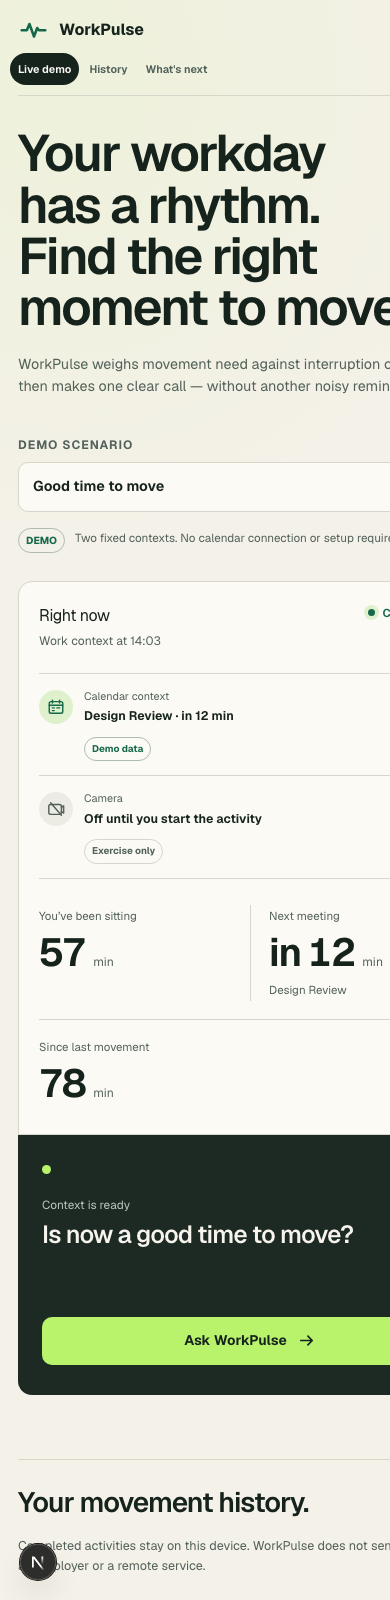
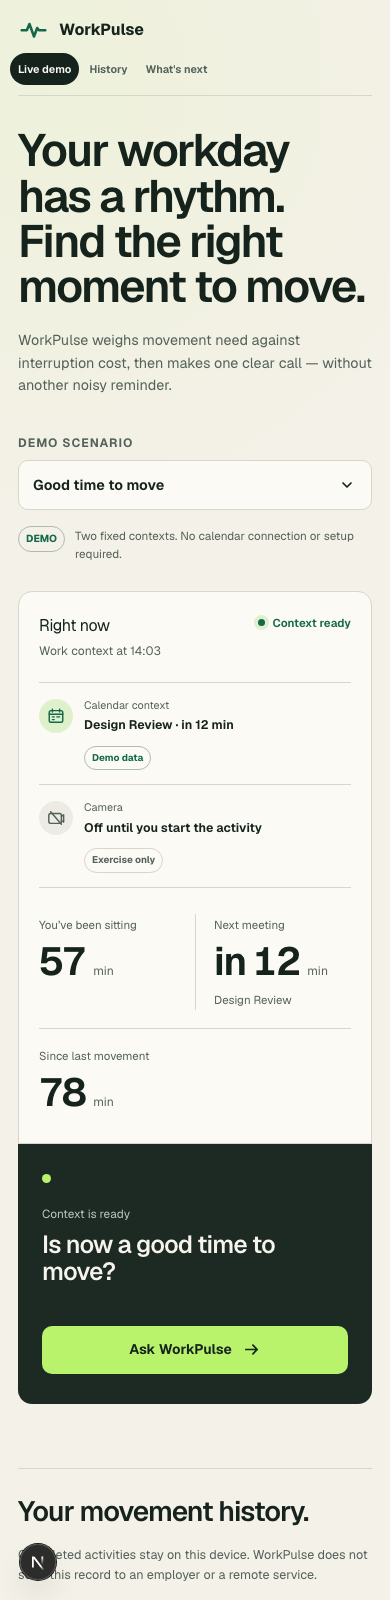
Polish activity history presentation

diff --git a/app/globals.css b/app/globals.css
@@ -560,7 +560,7 @@ footer p { font-size: .7rem; margin: 0; }
   .scenario-options { display: grid; grid-template-columns: repeat(2, 1fr); }
   .scenario-option { border-bottom: 1px solid var(--line); border-left: 1px solid var(--line); min-height: 108px; }
   .scenario-option:first-child { border-left: 0; }
-  .privacy-note { margin: 16px 0 0; max-width: 390px; }
+  .privacy-note { grid-template-columns: auto minmax(0, 1fr); margin: 16px 0 0; max-width: 390px; }
   .movement-history { gap: 30px; grid-template-columns: 1fr; }
   .roadmap-intro { align-items: start; gap: 30px; grid-template-columns: 1fr; }
   .roadmap-focus, .roadmap-explore { gap: 30px; grid-template-columns: 1fr; }
@@ -574,6 +574,7 @@ footer p { font-size: .7rem; margin: 0; }
   .site-nav { gap: 2px; justify-content: flex-start; margin-left: -8px; }
   .site-nav a { font-size: .68rem; padding-inline: 8px; }
   .intro { gap: 20px; padding: 32px 0 34px; }
+  .intro > * { min-width: 0; }
   .intro h1 { font-size: clamp(2.35rem, 11.6vw, 3.2rem); line-height: 1; }
   .intro > p { font-size: .9rem; line-height: 1.55; }
   .scenario-selector legend { margin-bottom: 8px; }
@@ -593,6 +594,8 @@ footer p { font-size: .7rem; margin: 0; }
     width: 100%;
   }
   .context-panel { padding: 22px 20px; }
+  .section-heading-row { flex-wrap: wrap; }
+  .live-status { white-space: normal; }
   .context-sources { grid-template-columns: 1fr; }
   .context-source { grid-template-columns: auto minmax(0, 1fr); padding: 14px 0; }
   .context-source + .context-source { border-left: 0; border-top: 1px solid var(--line); padding-left: 0; }

diff --git a/components/ActivityHistory.tsx b/components/ActivityHistory.tsx
@@ -36,8 +36,9 @@ export function ActivityHistory({ entries }: { entries: ActivityHistoryEntry[] }
       <header>
         <h2 id="history-heading">Your movement history.</h2>
         <p>
-          Completed activities stay on this device. WorkPulse does not send
-          this record to an employer or a remote service.
+          When browser storage is available, completed activities stay on this
+          device. WorkPulse does not send this record to an employer or a
+          remote service.
         </p>
       </header>
 
@@ -82,7 +83,7 @@ export function ActivityHistory({ entries }: { entries: ActivityHistoryEntry[] }
                   </div>
                   <dl>
                     <div>
-                      <dt>Duration</dt>
+                      <dt>Estimated</dt>
                       <dd>{entry.durationSeconds} sec</dd>
                     </div>
                     <div>

diff --git a/components/WorkPulseApp.test.tsx b/components/WorkPulseApp.test.tsx
@@ -78,6 +78,7 @@ describe("WorkPulseApp", () => {
     expect(screen.getByRole("heading", { name: /your movement history/i })).toBeDefined();
     expect(screen.getByText("Completed manually without camera verification")).toBeDefined();
     expect(screen.getByText("45 sec")).toBeDefined();
+    expect(screen.getByText("Estimated")).toBeDefined();
 
     fireEvent.click(screen.getByRole("button", { name: /run again/i }));
     expect(screen.getByRole("button", { name: /ask workpulse/i })).toBeDefined();

diff --git a/DESIGN.md b/DESIGN.md
@@ -167,15 +167,15 @@ The palette pairs quiet paper neutrals with grounded ink-green surfaces, a warm-
 
 **The Decision Speaks Largest Rule.** The resolved state is always the strongest type on the screen; supporting levels and reasons remain legible but never compete with it.
 
-**The Measured Numeral Rule.** Context values use tabular numerals so changing data does not disturb the visual rhythm.
+**The Measured Numeral Rule.** Context values, history counts, times, durations, and movement totals use tabular numerals so changing data does not disturb the visual rhythm.
 
 ## Layout
 
 The page sits in a centered 1440px shell with 48px desktop gutters. A compact header anchors the brand on the left while the tagline stays quiet in the center. The premise uses a wide-to-narrow editorial split, then the demo shifts to a 285px scenario rail beside one flexible decision stage with a 40px gutter.
 
-The context and decision areas read as one instrument: the raised paper context panel has only its top corners rounded, while the dark action or decision surface rounds only its bottom corners. Three context metrics divide the panel with one-pixel rules. History aligns beneath the decision stage rather than beneath the scenario rail.
+The context and decision areas read as one instrument: the raised paper context panel has only its top corners rounded, while the dark action or decision surface rounds only its bottom corners. Three context metrics divide the panel with one-pixel rules. The browser-local history section follows the demo in the same 285px/flexible-content grid; its title and privacy explanation occupy the left rail, while summary counts and completed-activity rows occupy the content column. The roadmap uses the same rail for a proposed P0.5 feature register, with the next phase and exploration separated by tonal surfaces and ruled rows.
 
-At 920px, the two-scenario rail becomes a two-column horizontal strip. At 640px, page gutters tighten to 18px, the scenario choices collapse into a single 50px select, the metrics become a two-column grid with the third metric spanning the next row, and actions stack to full width. The same context-to-decision reading order is preserved from a 360px viewport upward.
+At 920px, the two-scenario rail becomes a two-column horizontal strip; history and roadmap rails stack above their content. At 640px, page gutters tighten to 18px, the scenario choices collapse into a single 50px select, the metrics become a two-column grid with the third metric spanning the next row, and actions stack to full width. The header places its links beneath the brand, history rows become a date/time column beside an activity column with details underneath, and roadmap phase cells stack vertically. The same context-to-decision reading order is preserved from a 360px viewport upward.
 
 ## Elevation & Depth
 
@@ -227,7 +227,7 @@ The form language is measured and lightly softened. Joined context and decision 
 
 ### Navigation
 
-The compact header uses an inline pulse mark and bold product name on the left with a quiet tagline centered on desktop. The tagline disappears below 640px. Navigation does not become a menu because the MVP has one task.
+The compact header uses an inline pulse mark and bold product name on the left, a quiet tagline centered on desktop, and right-aligned pill links for Live demo, History, and What’s next. The current page receives an ink fill and inverse text; hover stays soft, and keyboard focus uses the shared blue outline. History links to the demo’s section anchor. Below 640px, the tagline disappears and the links sit visibly beneath the brand without a menu.
 
 ### Decision Surface
 
@@ -241,6 +241,14 @@ The activity state keeps the green decision surface and replaces the static inst
 
 Three metrics use large tight values, small muted units, and tabular numerals. Thin vertical rules separate them on desktop. On mobile, the first two remain side by side and the third spans a ruled second row, preserving all context in the first interaction viewport.
 
+### Activity History
+
+The browser-local ledger continues the paper-and-rule language beneath the demo. Its left rail names the section and explains that completed records stay on this device when browser storage is available. Three restrained, tabular summary numerals show completed, today, and camera-verified counts. The empty state leaves a clear ruled area and a plain invitation to finish an activity. Completed entries appear newest first as ruled rows with date and time, activity name, explicit camera or manual completion language, estimated duration, and movement count. On mobile, each row keeps time beside the activity and moves the two facts below the activity text.
+
+### Roadmap Register
+
+The roadmap is a reading surface: a large editorial opening, a ruled three-phase rail, then a feature register aligned to the 285px/content grid. The proposed P0.5 phase has the only dark rail cell, while the first feature row names the real calendar connection and its explicit permission requirement. A visible “proposed direction” note keeps the page from implying a release promise. Later and exploratory material recedes into a dark follow-on panel and quiet outlined pills.
+
 ## Do's and Don'ts
 
 ### Do:
@@ -250,6 +258,8 @@ Three metrics use large tight values, small muted units, and tabular numerals. T
 - **Do** preserve text labels for MOVE NOW and NOT NOW so state never depends on green or brown alone.
 - **Do** keep scenario controls visible but secondary, collapsing them to a select on narrow screens.
 - **Do** respect reduced-motion preference for the activity pulse animation.
+- **Do** keep history verification language explicit and its device-local explanation adjacent to the ledger.
+- **Do** distinguish current, proposed, tentative, and exploratory roadmap content in text as well as styling.
 
 ### Don't:
 

diff --git a/PRODUCT.md b/PRODUCT.md
@@ -29,9 +29,10 @@ The MVP is a responsive, single-page web demo for a laptop pitch and a 360px mob
 - Deterministically return `MOVE NOW` or `NOT NOW`, movement need, interruption cost, and a reason.
 - Attach one fixed activity—a neck reset in about 45 seconds—only to `MOVE NOW`.
 - Support optional on-device verification for four guided neck movements, plus a manual fallback.
+- Keep a browser-only history of completed activities with time, estimated duration, verification mode, and movement count when local storage is available.
 - Request camera access only during the activity and stop it immediately after completion or cancellation.
 - Never record, store, upload, or play back video, and never request microphone access.
-- Work without authentication, real calendar access, a database, local persistence, or an LLM service.
+- Work without authentication, real calendar access, a database, cross-device persistence, or an LLM service.
 - Frame activities as workplace-wellbeing suggestions, not medical advice.
 
 ## Brand Commitments
